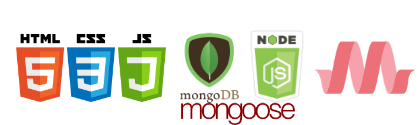
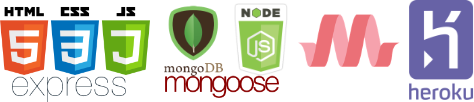
fix image

diff --git a/readme.md b/readme.md
@@ -25,7 +25,7 @@ Have you ever applied to a bunch of jobs and then forgotten what you've applied 
 
 ### Technologies Used:
 
-![HTML|CSS|JAVASCRIPT|MONGODB|NODE.JS|MONGOOSE|MATERIALIZE](https://raw.githubusercontent.com/jcjv94/Application-Tracker/master/public/images/techUsed/technologiesUsed.png)
+![HTML|CSS|JAVASCRIPT|EXPRESS|MONGODB|NODE.JS|MONGOOSE|MATERIALIZE|HEROKU](https://raw.githubusercontent.com/jcjv94/Application-Tracker/master/public/images/techUsed/technologiesUsed.png)
 
 ### Next Steps:
 
